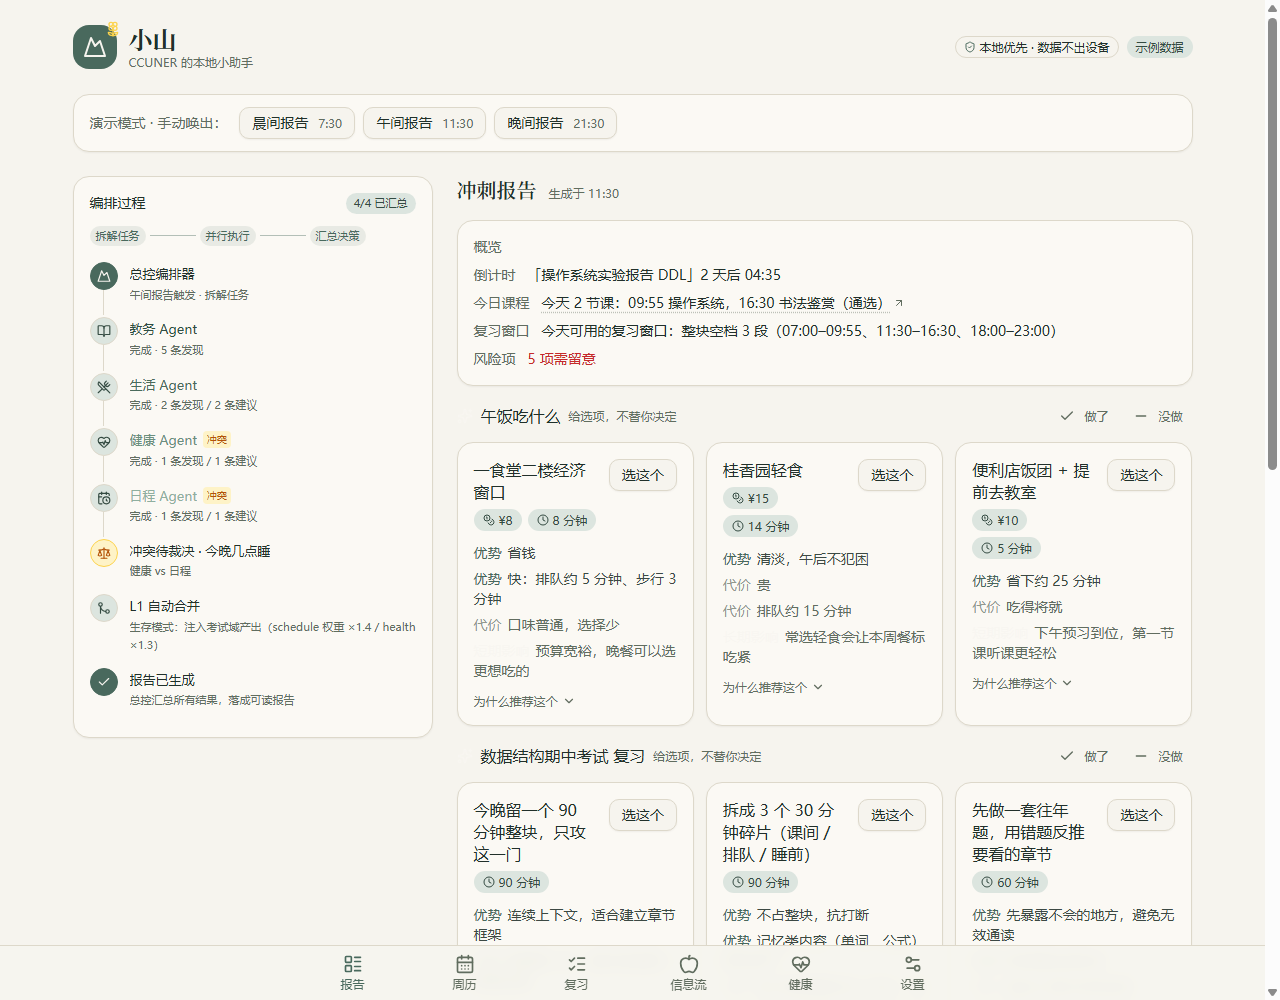
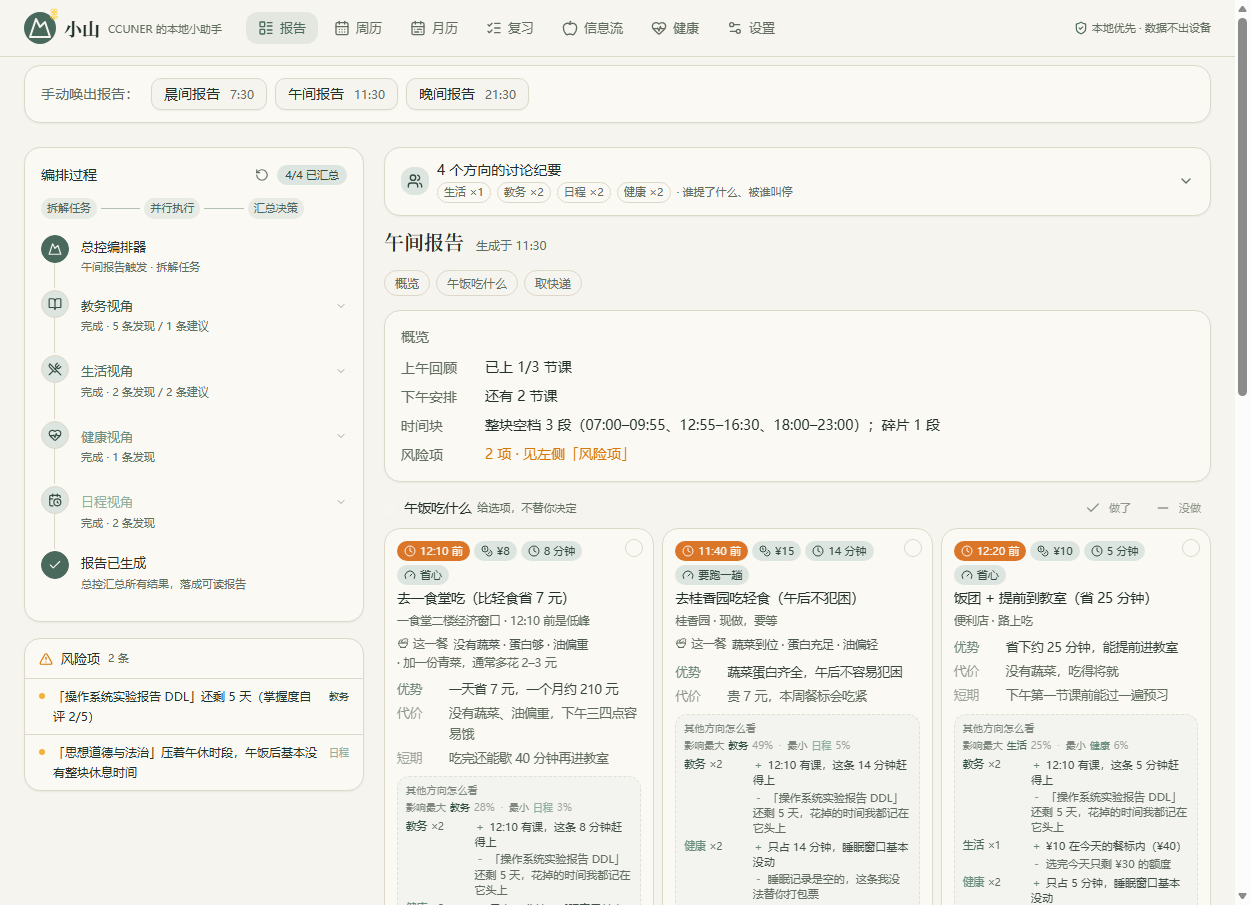
docs: reframe scope as a boundary, not a selling point; refresh screenshots
Drops 仅限华师学子 from the feature list - being one-campus is a scope decision, not an innovation - and states it once at the bottom as 适用范围. Adds a fourth bullet for traceable conclusions.

Replaces docs/assets/home.png and week.png: the old ones were captured from the pre-merge UI and showed '教务 Agent' in the sidebar, which is likely what an external reader was picking up. New shots are from the current build.

diff --git a/README.md b/README.md
@@ -1,16 +1,18 @@
 # 小山 · CCUNER 的小助手
 
-专属于华师（CCNU）学生的本地优先 AI 校园助手：**数据在本机处理，决策过程看得见。**
+面向华中师范大学（桂子山 / 南湖）学生的本地优先校园助手：**数据在本机处理，决策过程看得见。**
 
 **[打开在线站点](https://ccuner-xiaoshan-mirror.netlify.app)** · Netlify 托管，国内可直连，无需账号，数据只保存在当前浏览器。
 **[Vercel 备份站](https://ccuner-xiaoshan.vercel.app)** · 连接 GitHub 自动部署；`*.vercel.app` 在国内多地会被 DNS 投毒 + TLS 重置，打不开就用上面那个。
 
 ## 为什么是小山
 
-- **仅限华师学子**：只服务华中师范大学的学生（桂子山 / 南湖校区），信息按身份过滤
 - **本地优先的数据处理**：课表、日程、健康数据都在这台设备上处理与保存，断网照样能用
 - **多个思考方向**：从教务 / 生活 / 健康 / 日程几个方向分别想一遍再汇总，每条建议都给出依据；思考过程可以接入 API（大模型）来做
 - **给建议，不替人决定**：建议里写明成本与可能影响，最终由你拍板，助手记住你的偏好
+- **结论可追溯**：每条结论都挂得住原始事实（哪节课、哪晚睡眠、哪场考试），点开就能看依据——不是「AI 想了想」
+
+> 适用范围：华中师范大学在校学生（桂子山 / 南湖校区）。这不是产品特色，只是目前只接了这所学校的数据源。
 
 ## 特点（创新点）
 
@@ -24,9 +26,9 @@
 
 ## 效果展示
 
-![首页：编排时间轴 + 午间报告](docs/assets/home.png)
+![首页：讨论纪要 + 报告卡 + 方向评审](docs/assets/home.png)
 
-![周历：色块课表 + 风险卡](docs/assets/week.png)
+![周历：色块课表 + 风险提示条](docs/assets/week.png)
 
 ### 实例 1：午间报告（11:30 定时生成）
 
